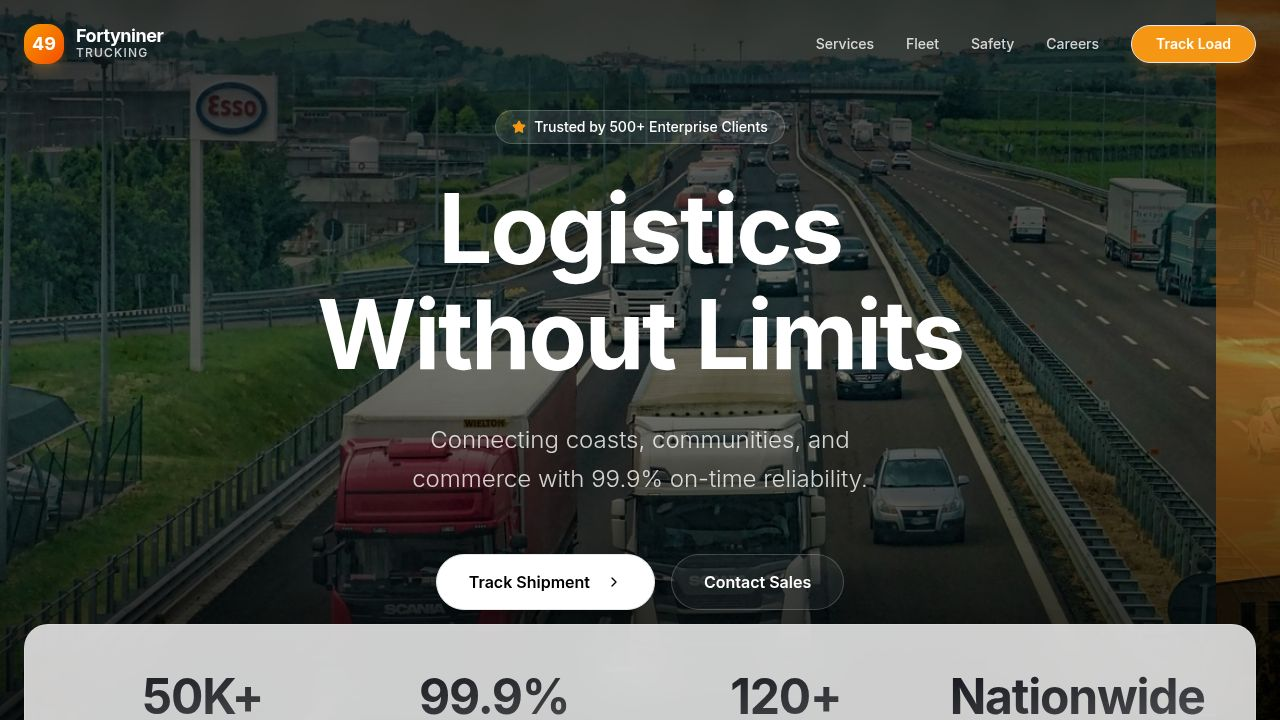
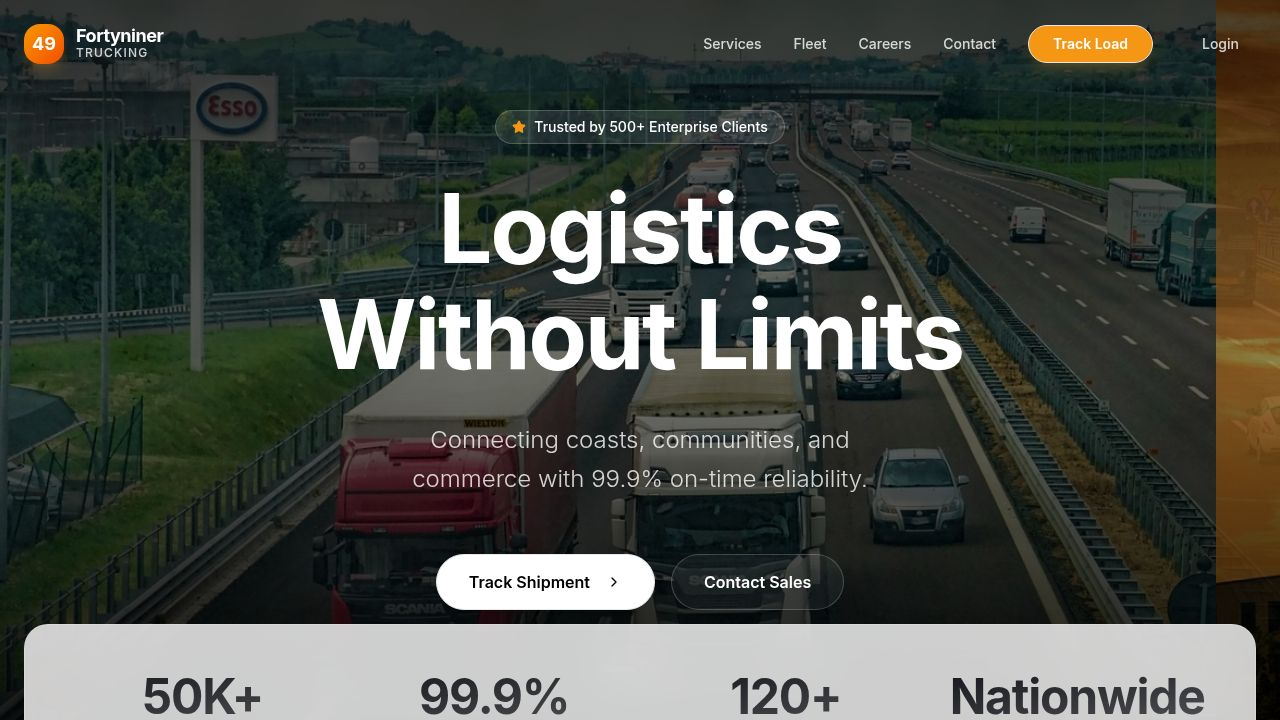
Add an easy way to access the admin portal from the main navigation
Add a "Login" button to the public-facing header, linking to the admin dashboard.

Replit-Commit-Author: Agent
Replit-Commit-Session-Id: 8c545bd8-3861-4e10-b893-73e8ae926bbb
Replit-Commit-Checkpoint-Type: full_checkpoint
Replit-Commit-Event-Id: 72539486-6156-41d0-92ff-1e2dc755035a
Replit-Commit-Screenshot-Url: https://storage.googleapis.com/screenshot-production-us-central1/74c87e2d-ebef-452a-bdc8-60aabaeb0e62/8c545bd8-3861-4e10-b893-73e8ae926bbb/Lc4aoJm
Replit-Helium-Checkpoint-Created: true

Changed region(s): [[0.625, 0.0306, 1.0, 0.1222], [0.5625, 0.0611, 0.5938, 0.0917]]

diff --git a/client/src/pages/home.tsx b/client/src/pages/home.tsx
@@ -106,6 +106,11 @@ export default function Home() {
                  Track Load
                </Button>
             </Link>
+            <Link href="/admin">
+               <Button variant="ghost" className={`font-medium ${scrolled ? "text-muted-foreground hover:text-foreground" : "text-white/80 hover:text-white"}`}>
+                 Login
+               </Button>
+            </Link>
           </div>
 
           {/* Mobile Menu Toggle */}
@@ -142,6 +147,11 @@ export default function Home() {
               <Link href="/tracking">
                  <Button className="w-full font-bold bg-primary text-white rounded-xl h-12 shadow-lg shadow-primary/20 mt-2">
                    Track Load
+                 </Button>
+              </Link>
+              <Link href="/admin">
+                 <Button variant="outline" className="w-full font-bold rounded-xl h-12 mt-2">
+                   Portal Login
                  </Button>
               </Link>
             </motion.div>
